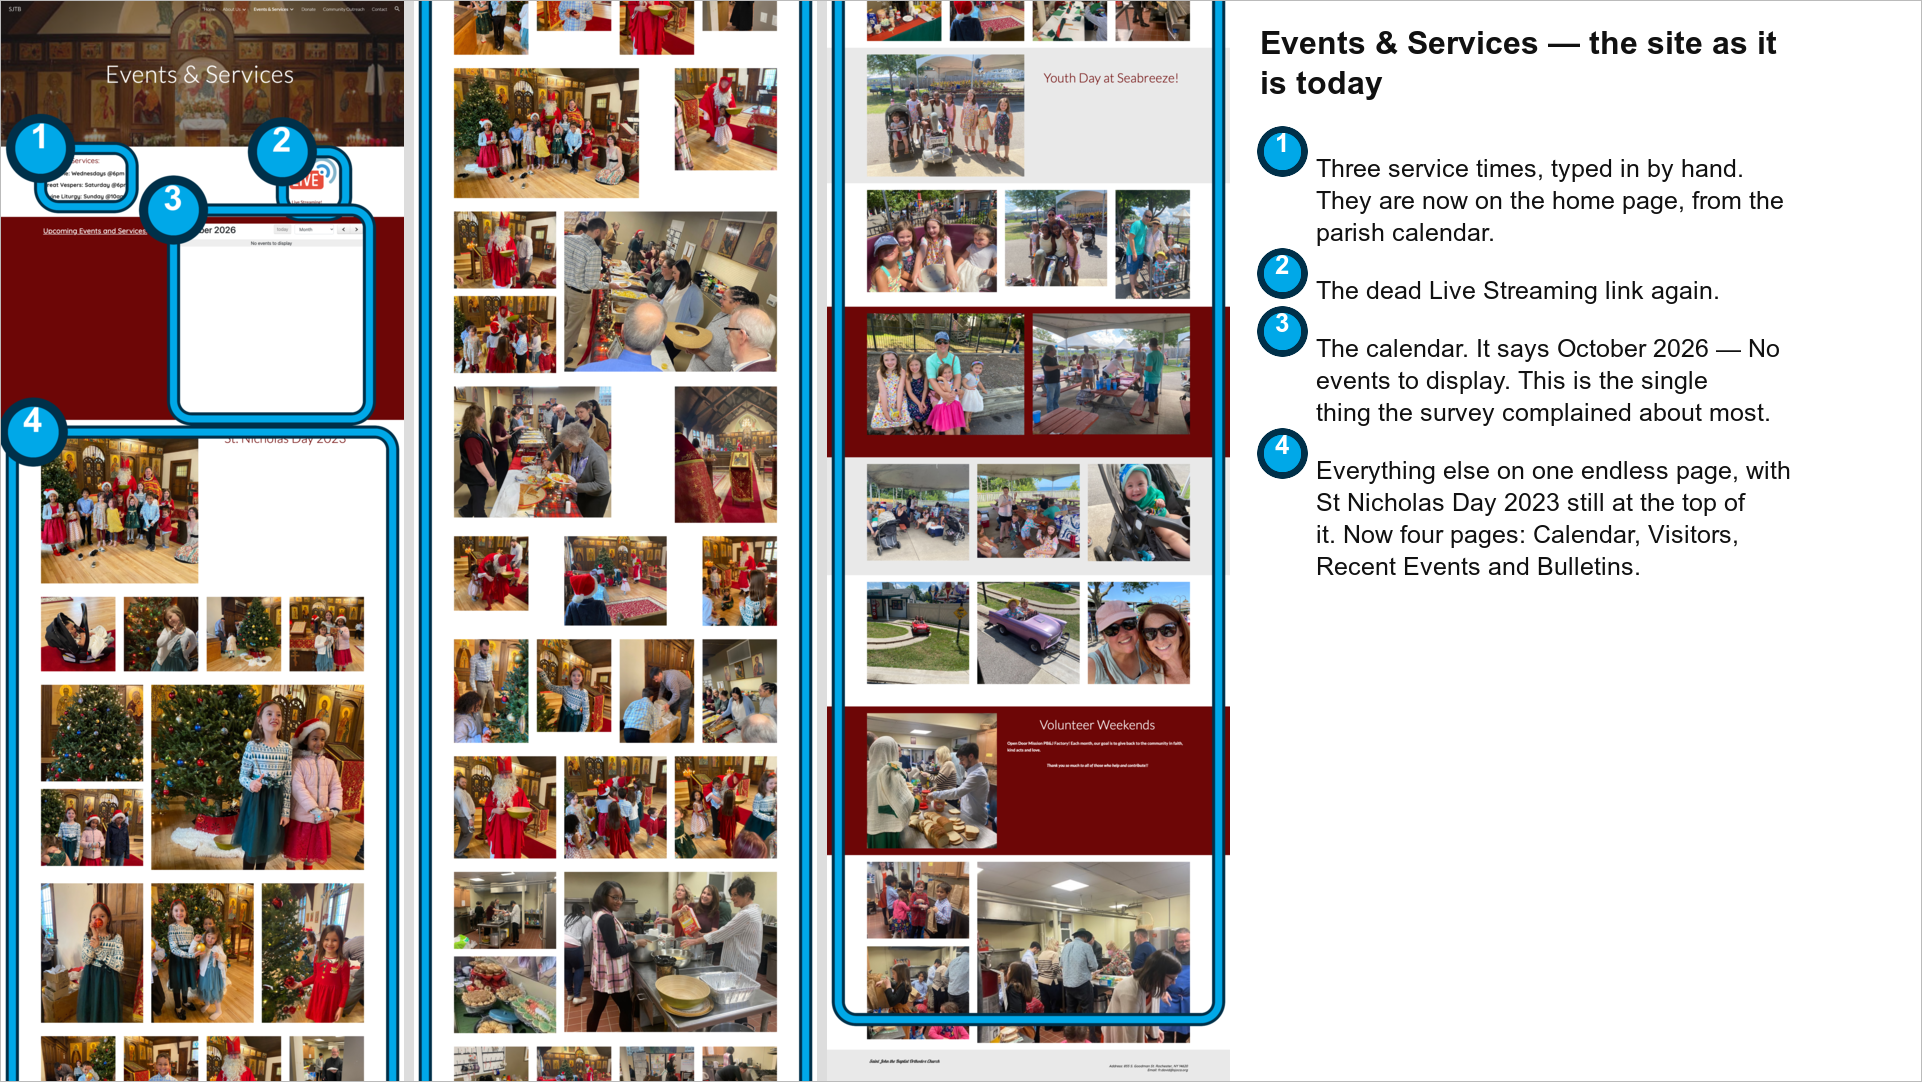
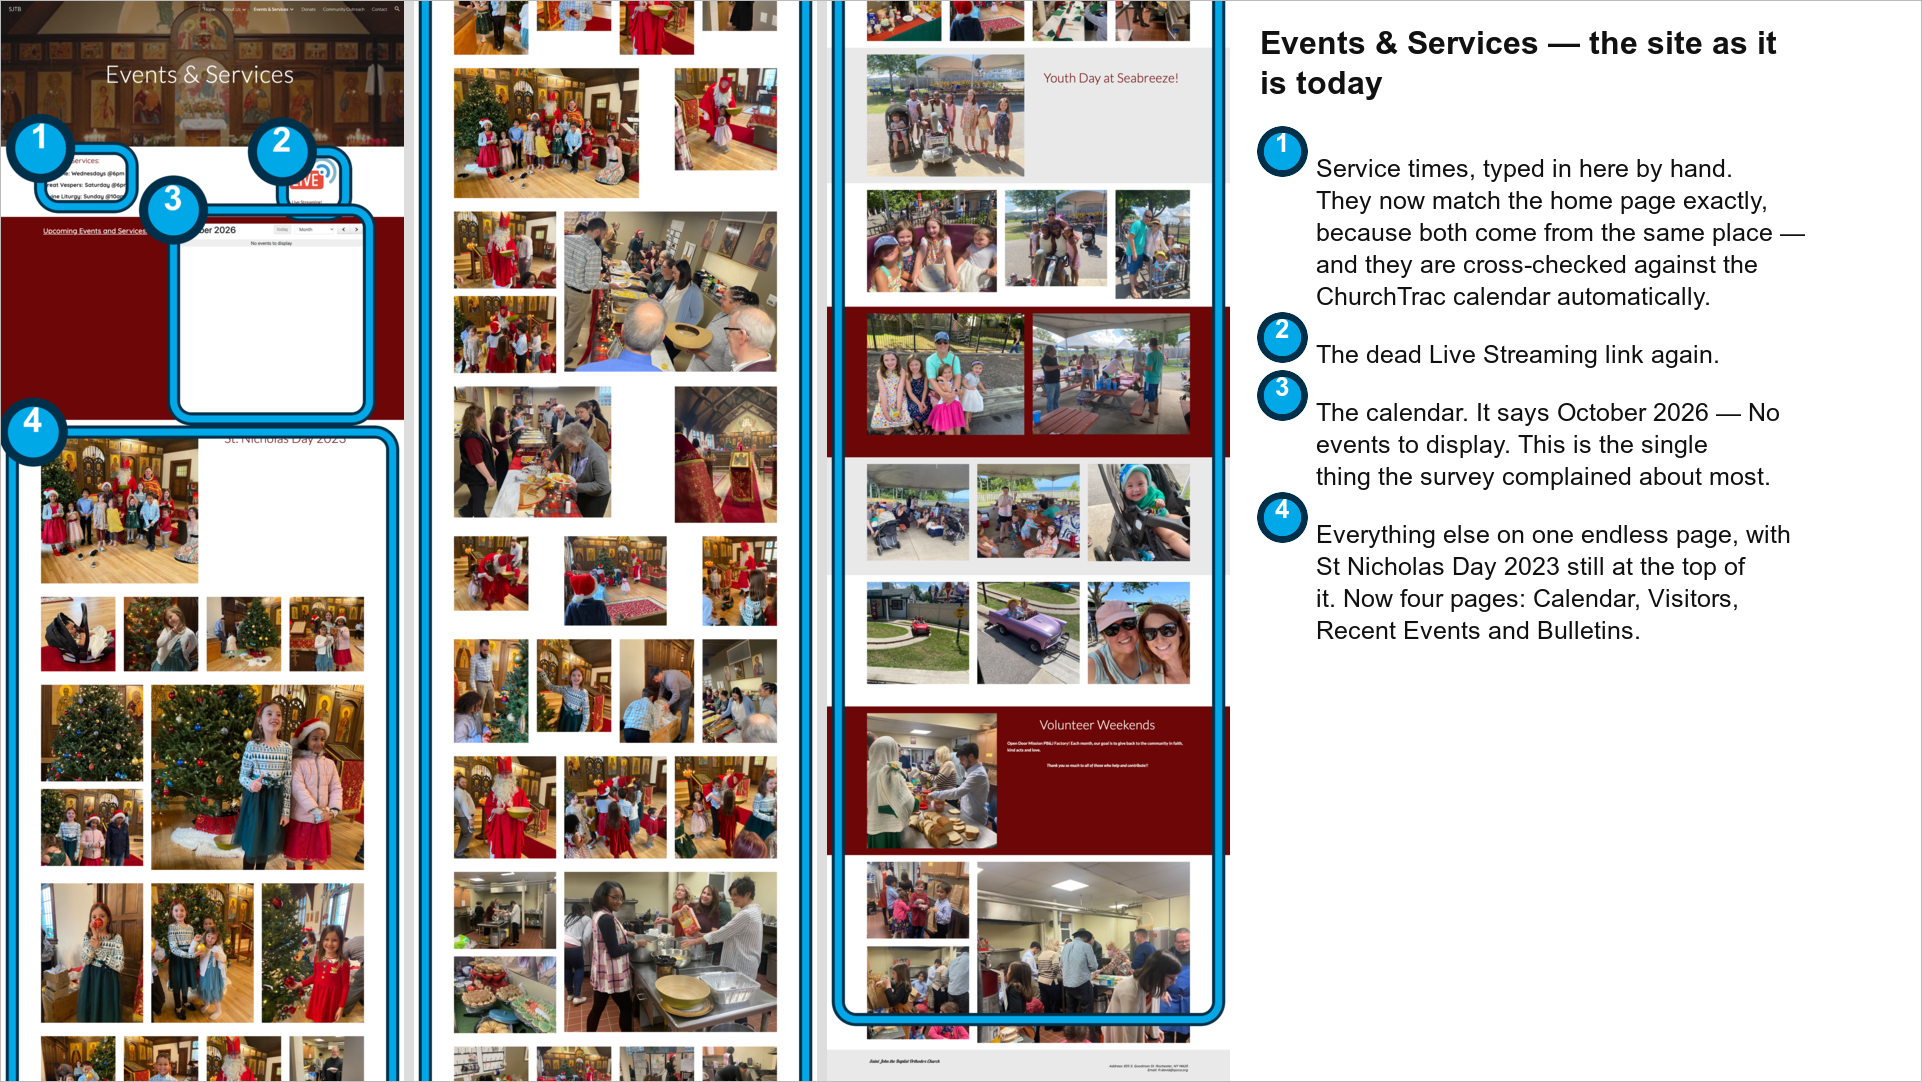
deck: fix three callouts built on white that is not there
The captures run to a fixed 2400px whatever the page needed, so a short page
ends in a field of white that no browser ever shows. I read that as the site
having empty space and wrote three callouts on it. It was my renderer.

The renderer now collapses any long run of blank rows to a thin gap, after the
rings are drawn so the coordinates still mean what they meant.

The space that WAS going spare on the home page is inside the red band, right
of the icon and below the text, and that is what the callout rings now. Choir
and Serving Others ring the end of the real content instead. Donate gains the
menu word -- now Giving, which is more welcoming -- and says the unneeded
button was removed and an explanation of the process put in its place. Events
& Services now makes the point that the service times match the home page
because both come from the calendar, cross-checked automatically.

Grid gains a row for the giving button.

Changed region(s): [[0.6556, 0.1525, 0.9365, 0.61]]

diff --git a/deck/shots/grid.html b/deck/shots/grid.html
@@ -7,7 +7,7 @@
   h1 { font-size:33px; margin:0 0 3px }
   p.sub { margin:0 0 14px; color:#555; font-size:18px }
   table { border-collapse:collapse; width:100%; table-layout:fixed }
-  th, td { border:1px solid var(--rule); padding:6px 10px; vertical-align:middle }
+  th, td { border:1px solid var(--rule); padding:5px 10px; vertical-align:middle }
   thead th { background:#f3f3f3; font-size:16px; line-height:1.25; height:132px;
              vertical-align:bottom; text-align:center; padding-bottom:9px }
   thead th:first-child { text-align:left; vertical-align:bottom; font-size:19px;
@@ -47,6 +47,7 @@
     <tr><th>Leadership: names and photographs updated</th><td></td><td></td><td></td><td>✓</td><td></td><td>✓</td><td></td></tr>
     <tr><th>Choir page updated, with an invitation to join</th><td></td><td>✓</td><td></td><td>✓</td><td></td><td></td><td></td></tr>
     <tr><th>Giving split: financially, and in time and talent</th><td></td><td>✓</td><td></td><td></td><td>✓</td><td></td><td></td></tr>
+    <tr><th>The giving button made clear, with the process explained</th><td></td><td></td><td></td><td></td><td>✓</td><td></td><td></td></tr>
     <tr><th>Serving Others: PB&amp;J Factory, Project Mexico, Alfred Mission</th><td></td><td>✓</td><td></td><td></td><td>✓</td><td></td><td></td></tr>
     <tr><th>Contact: email link, driving directions, working map</th><td></td><td></td><td></td><td>✓</td><td></td><td>✓</td><td></td></tr>
     <tr><th>Dead Live Streaming links removed</th><td></td><td></td><td></td><td></td><td></td><td>✓</td><td></td></tr>

diff --git a/script/annotate_shot.py b/script/annotate_shot.py
@@ -1,26 +1,41 @@
 #!/usr/bin/env python3
-"""Draw numbered callouts on a page screenshot, with a legend beside it.
+"""Ring numbered areas on a page screenshot, with a legend beside it.
 
-Built for the AGM walkthrough: show the old site with the problem areas
-ringed and numbered, talk through them, then switch to the live new site.
+For the AGM walkthrough: show the old site with the problem areas ringed and
+numbered, talk through them, then switch to the live new site.
 
 Spec is JSON so the callouts are data, not code:
 
-    {"image": "...png", "out": "...png", "title": "Home page — before",
+    {"image": "...png", "out": "...png", "title": "Home page — as it is today",
      "callouts": [{"box": [0.08, 0.49, 0.36, 0.72], "text": "..."},
                   {"point": [0.9, 0.97], "text": "..."}]}
 
 Boxes and points are FRACTIONS of the image (left, top, right, bottom), so a
-spec written against a thumbnail still lands on the full-resolution shot.
+spec written against a thumbnail lands correctly on the full-resolution shot.
+
+Two things the layout has to survive:
+
+  * The output must be LANDSCAPE and legible on a small laptop. These captures
+    are 1440 wide and anywhere from 2400 to 11573 tall, so a page is sliced
+    into as many columns as it takes to fill the frame rather than being shrunk
+    to a thread.
+
+  * Rings are drawn at full resolution and then scaled down with the page, so
+    every stroke and badge is multiplied by 1/scale first. Drawn at their
+    nominal size they arrive three pixels thick and invisible.
 """
 import json, subprocess, sys, textwrap
 
-FONT  = "/System/Library/Fonts/Supplemental/Arial.ttf"
-BOLD  = "/System/Library/Fonts/Supplemental/Arial Bold.ttf"
-INK   = "#00A8E8"        # cyan — the site is red and white, so nothing clashes
-HALO  = "#003049"        # dark outline so the cyan survives a light background
-LEGEND_W = 780
-PAD      = 34
+FONT = "/System/Library/Fonts/Supplemental/Arial.ttf"
+BOLD = "/System/Library/Fonts/Supplemental/Arial Bold.ttf"
+INK  = "#00A8E8"          # cyan: the site is red and white, so nothing clashes
+HALO = "#003049"          # dark outline, so the cyan survives a light background
+
+OUT_W, OUT_H = 1920, 1080
+LEGEND_W     = 640
+GUTTER       = 10         # between sliced columns, at output scale
+MAX_COLS     = 4
+PAD          = 30
 
 
 def size(path):
@@ -29,80 +44,190 @@ def size(path):
     return tuple(int(n) for n in out.split())
 
 
-def badge(cx, cy, n, r=30, bounds=None):
-    """A filled numbered disc. Drawn twice: dark halo, then the ink.
+def blank_runs(path, min_run=180):
+    """Rows of near-white, as (top, bottom) pairs.
 
-    Clamped inside the image, or a badge on a callout that hugs the top edge
-    gets its top half sliced off."""
+    These captures run to a fixed 2400px whatever the page needed, so a short
+    page ends in a field of white that does not exist in a browser. Shown on a
+    slide it eats half the frame and reads as though the site had a hole in it.
+
+    Averaging each row to one pixel is enough: a row carrying any part of the
+    page -- or any part of a ring drawn over it -- is not white.
+    """
+    out = subprocess.run(["magick", path, "-resize", "1x!", "-depth", "8", "txt:-"],
+                         capture_output=True, text=True, check=True).stdout
+    white = []
+    for line in out.splitlines()[1:]:
+        try:
+            rgb = line.split("#")[1][:6]
+        except IndexError:
+            continue
+        white.append(all(int(rgb[i:i+2], 16) >= 250 for i in (0, 2, 4)))
+
+    runs, start = [], None
+    for i, is_white in enumerate(white + [False]):
+        if is_white and start is None:
+            start = i
+        elif not is_white and start is not None:
+            if i - start >= min_run:
+                runs.append((start, i))
+            start = None
+    return runs
+
+
+def collapse_blanks(src, dst, keep=40):
+    """Squeeze every long blank run down to a thin gap."""
+    runs = blank_runs(src)
+    if not runs:
+        return src, 0
+
+    W, H = size(src)
+    pieces, cursor, removed = [], 0, 0
+    for n, (top, bot) in enumerate(runs):
+        if top > cursor:
+            piece = f"{dst}.keep{n}.png"
+            subprocess.run(["magick", src, "-crop", f"{W}x{top-cursor}+0+{cursor}",
+                            "+repage", piece], check=True)
+            pieces.append(piece)
+        gap = f"{dst}.gap{n}.png"
+        subprocess.run(["magick", "-size", f"{W}x{keep}", "xc:white", gap], check=True)
+        pieces.append(gap)
+        removed += (bot - top) - keep
+        cursor = bot
+    if cursor < H:
+        piece = f"{dst}.keeplast.png"
+        subprocess.run(["magick", src, "-crop", f"{W}x{H-cursor}+0+{cursor}",
+                        "+repage", piece], check=True)
+        pieces.append(piece)
+
+    subprocess.run(["magick"] + pieces + ["-append", "+repage", dst], check=True)
+    subprocess.run(["rm", "-f"] + pieces, check=True)
+    return dst, removed
+
+
+def columns_for(w, h, avail_w):
+    """How many slices make the page fill the frame without overflowing it."""
+    for n in range(1, MAX_COLS + 1):
+        col_h = h / n
+        col_w = w * OUT_H / col_h            # each slice scaled to the full height
+        if n * col_w + (n - 1) * GUTTER > avail_w:
+            return max(1, n - 1) if n > 1 else 1
+    return MAX_COLS
+
+
+def badge(cx, cy, n, r, bounds=None, pointsize=None):
+    """A filled numbered disc: dark halo, then ink, then the number."""
     if bounds:
         W, H = bounds
         cx = min(max(cx, r + 8), W - r - 8)
         cy = min(max(cy, r + 8), H - r - 8)
+    ps = pointsize or int(r * 1.15)
     return [
-        "-stroke", HALO, "-strokewidth", "9", "-fill", INK,
-        "-draw", f"circle {cx},{cy} {cx},{cy-r}",
-        "-stroke", "none", "-fill", "white",
-        "-font", BOLD, "-pointsize", "34",
+        "-stroke", HALO, "-strokewidth", str(max(2, int(r * 0.30))), "-fill", INK,
+        "-draw", f"circle {cx},{cy} {cx},{cy - r}",
+        "-stroke", "none", "-fill", "white", "-font", BOLD, "-pointsize", str(ps),
         "-gravity", "NorthWest",
-        "-annotate", f"+{cx - (10 if n < 10 else 19)}+{cy - 22}", str(n),
+        "-annotate", f"+{cx - int(ps * (0.30 if n < 10 else 0.58))}+{cy - int(ps * 0.72)}",
+        str(n),
     ]
 
 
 def render(spec):
     src = spec["image"]
     W, H = size(src)
-    args = ["magick", src]
+    avail = OUT_W - LEGEND_W - PAD
+    cols  = columns_for(W, H, avail)
 
+    # Everything drawn on the page is about to shrink by this much, so draw it
+    # that much bigger.
+    col_h = H / cols
+    scale = OUT_H / col_h
+    k     = 1.0 / scale
+
+    ring_w  = max(3, int(7 * k))
+    halo_w  = max(5, int(13 * k))
+    badge_r = max(14, int(30 * k))
+
+    marked = spec["out"] + ".marked.png"
+    args = ["magick", src]
     for i, c in enumerate(spec["callouts"], 1):
-        args += ["-stroke", HALO, "-strokewidth", "13", "-fill", "none"]
         if "box" in c:
             l, t, r, b = c["box"]
             x1, y1, x2, y2 = int(l * W), int(t * H), int(r * W), int(b * H)
-            for stroke, width in ((HALO, 13), (INK, 7)):
+            for stroke, width in ((HALO, halo_w), (INK, ring_w)):
                 args += ["-stroke", stroke, "-strokewidth", str(width), "-fill", "none",
-                         "-draw", f"roundrectangle {x1},{y1} {x2},{y2} 18,18"]
-            args += badge(x1, y1, i, bounds=(W, H))
+                         "-draw", f"roundrectangle {x1},{y1} {x2},{y2} {int(18*k)},{int(18*k)}"]
+            args += badge(x1, y1, i, badge_r, bounds=(W, H))
         else:
             px, py = c["point"]
             cx, cy = int(px * W), int(py * H)
-            for stroke, width in ((HALO, 13), (INK, 7)):
+            rad = int(58 * k)
+            for stroke, width in ((HALO, halo_w), (INK, ring_w)):
                 args += ["-stroke", stroke, "-strokewidth", str(width), "-fill", "none",
-                         "-draw", f"circle {cx},{cy} {cx+58},{cy}"]
-            args += badge(cx - 58, cy - 58, i, bounds=(W, H))
-
-    args += ["-stroke", "none", spec["out"]]
+                         "-draw", f"circle {cx},{cy} {cx + rad},{cy}"]
+            args += badge(cx - rad, cy - rad, i, badge_r, bounds=(W, H))
+    args += ["-stroke", "none", "+repage", marked]
     subprocess.run(args, check=True)
 
-    # The legend: a white column to the right, so the shot itself stays clean.
-    lines = []
+    if spec.get("collapse_blanks", True):
+        squeezed = spec["out"] + ".squeezed.png"
+        made, removed = collapse_blanks(marked, squeezed)
+        if removed:
+            subprocess.run(["rm", "-f", marked], check=True)
+            marked = made
+            H = size(marked)[1]
+            cols = columns_for(W, H, avail)
+            col_h = H / cols
+            scale = OUT_H / col_h
+
+    # Slice into columns, scale each to the full output height, lay them out.
+    slices = []
+    for n in range(cols):
+        top = int(n * H / cols)
+        bot = int((n + 1) * H / cols)
+        piece = f"{spec['out']}.col{n}.png"
+        subprocess.run(["magick", marked, "-crop", f"{W}x{bot-top}+0+{top}", "+repage",
+                        "-resize", f"x{OUT_H}", piece], check=True)
+        slices.append(piece)
+
+    page = spec["out"] + ".page.png"
+    cmd = ["magick"]
+    for n, s in enumerate(slices):
+        if n:
+            cmd += ["-size", f"{GUTTER}x{OUT_H}", "xc:#dddddd"]
+        cmd += [s]
+    cmd += ["+append", "+repage", page]
+    subprocess.run(cmd, check=True)
+
+    page_w, _ = size(page)
+    leg_w = OUT_W - page_w
+    legend = spec["out"] + ".legend.png"
+
+    wrap_at = max(24, int((leg_w - 2 * PAD - 56) / 14))
+    title_lines = textwrap.wrap(spec.get("title", ""), max(18, wrap_at - 6))
+
+    leg = ["magick", "-size", f"{leg_w}x{OUT_H}", "xc:white",
+           "-font", BOLD, "-pointsize", "32", "-fill", "#111", "-gravity", "NorthWest"]
+    for n, line in enumerate(title_lines):
+        leg += ["-annotate", f"+{PAD}+{PAD + n * 40}", line]
+
+    y = PAD + 40 * len(title_lines) + 26
     for i, c in enumerate(spec["callouts"], 1):
-        wrapped = textwrap.wrap(c["text"], 42)
-        lines.append((i, wrapped))
+        wrapped = textwrap.wrap(c["text"], wrap_at)
+        leg += badge(PAD + 22, y + 14, i, 22, pointsize=26)
+        leg += ["-stroke", "none", "-fill", "#111", "-font", FONT, "-pointsize", "25"]
+        for n, line in enumerate(wrapped):
+            leg += ["-annotate", f"+{PAD + 56}+{y + 22 + n * 32}", line]
+        y += 32 * len(wrapped) + 26
 
-    title_lines = len(textwrap.wrap(spec.get("title", ""), 34))
-    y = PAD + 42 * title_lines + 34
-    leg = ["magick", "-size", f"{LEGEND_W}x{H}", "xc:white",
-           "-font", BOLD, "-pointsize", "34", "-fill", "#111",
-           "-gravity", "NorthWest"]
-    for k, line in enumerate(textwrap.wrap(spec.get("title", ""), 34)):
-        leg += ["-annotate", f"+{PAD}+{PAD + k * 42}", line]
-    for i, wrapped in lines:
-        leg += badge(PAD + 26, y + 16, i, r=24)
-        leg += ["-stroke", "none", "-fill", "#111", "-font", FONT, "-pointsize", "27"]
-        for k, line in enumerate(wrapped):
-            leg += ["-annotate", f"+{PAD + 66}+{y + 24 + k * 34}", line]
-        y += 34 * len(wrapped) + 34
-
-    leg += [spec["out"] + ".legend.png"]
+    leg += ["+repage", legend]
     subprocess.run(leg, check=True)
 
-    # +repage, or the composite keeps the left image's page offset and every
-    # later crop against this file lands somewhere surprising.
-    subprocess.run(["magick", spec["out"], spec["out"] + ".legend.png",
-                    "+append", "+repage", "-bordercolor", "#cccccc", "-border", "1",
+    subprocess.run(["magick", page, legend, "+append", "+repage",
+                    "-bordercolor", "#bbbbbb", "-border", "1",
                     "-depth", "8", spec["out"]], check=True)
-    subprocess.run(["rm", "-f", spec["out"] + ".legend.png"], check=True)
-    print(spec["out"], size(spec["out"]))
+    subprocess.run(["rm", "-f", marked, page, legend] + slices, check=True)
+    print(f"{spec['out']}  {size(spec['out'])}  columns={cols}")
 
 
 if __name__ == "__main__":
